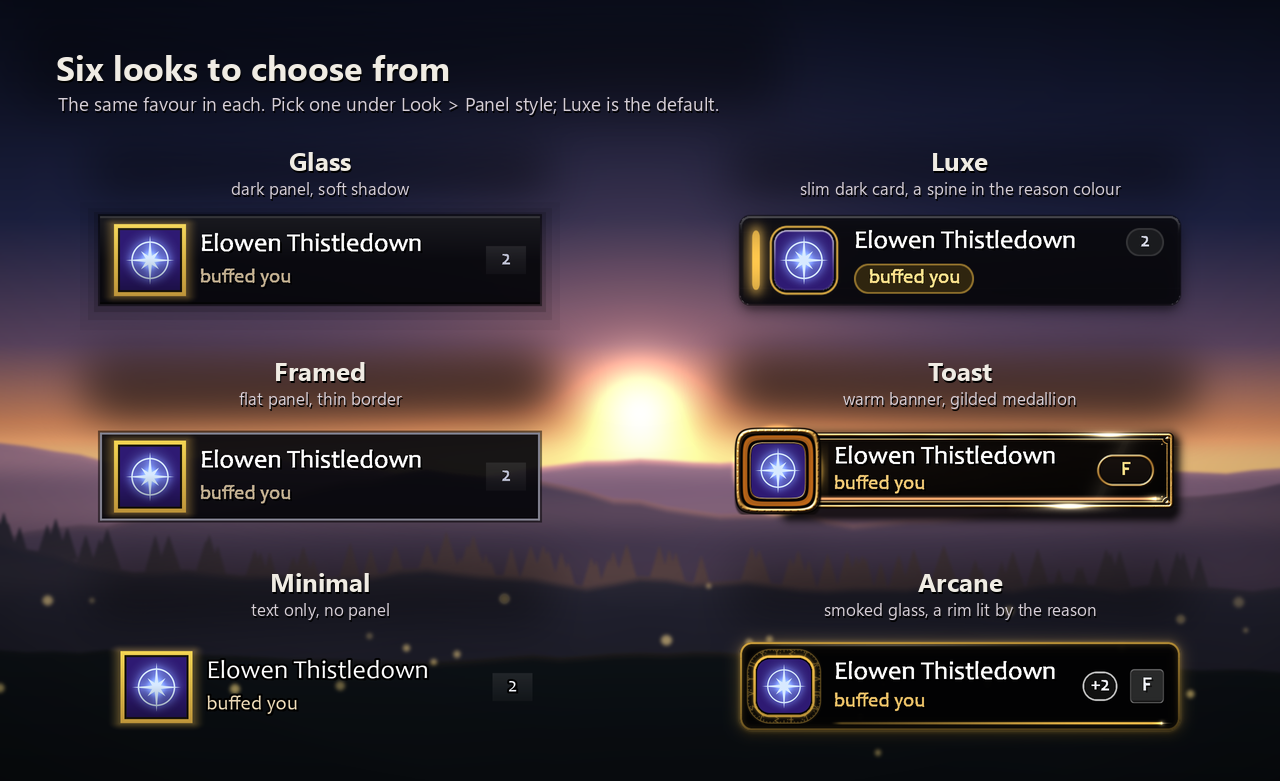
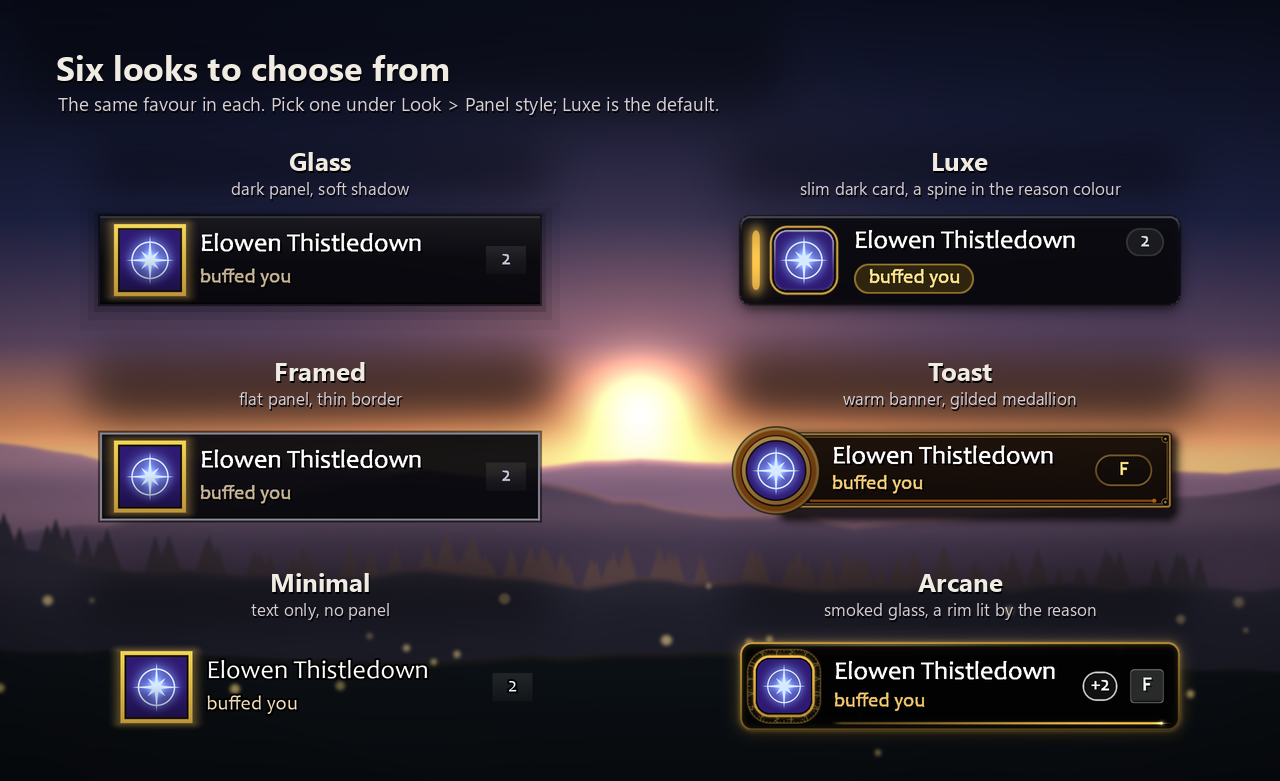
Manners 1.5.2: Toast redone with restraint; the minimap button's own place

Changed region(s): [[0.5625, 0.5224, 0.9375, 0.6761]]

diff --git a/tests/mutations/hunt13-fix1.py b/tests/mutations/hunt13-fix1.py
@@ -101,4 +101,6 @@ mutate("Core.lua",
        "\tlocal names = _G.LOCALIZED_CLASS_NAMES_MALE\n",
        "\tlocal names = _G.LOCALIZED_CLASS_NAMES_MALE\n",
        "fix1: no class throws",
-       expect="with no class at all the first line reads", script=S)
+       # Since Glass is the default again (1.5.1) the throw escapes from an
+       # earlier paint and stops the run before the named check is reached.
+       expect="attempt to index local 'class'", script=S)

diff --git a/CHANGELOG.md b/CHANGELOG.md
@@ -1,7 +1,12 @@
 # Changelog
 
-## Unreleased
+## 1.5.2
 
+- **Toast, redone.** In the game it had a glaring bright line round the banner
+  and a heavy square frame with a blue glow round the icon. It is now a quiet
+  warm banner: a thin frame of old, matt gold, a round medallion with a slim
+  gold ring and the reason colour as a dark enamel band, and no light left
+  glowing once it has arrived.
 - The minimap button now has a place of its own on the rim. It used to sit
   on the spot every addon gets by default, right on top of other buttons
   (Questie's, for one), so you saw theirs and got Manners' tooltip. A button
